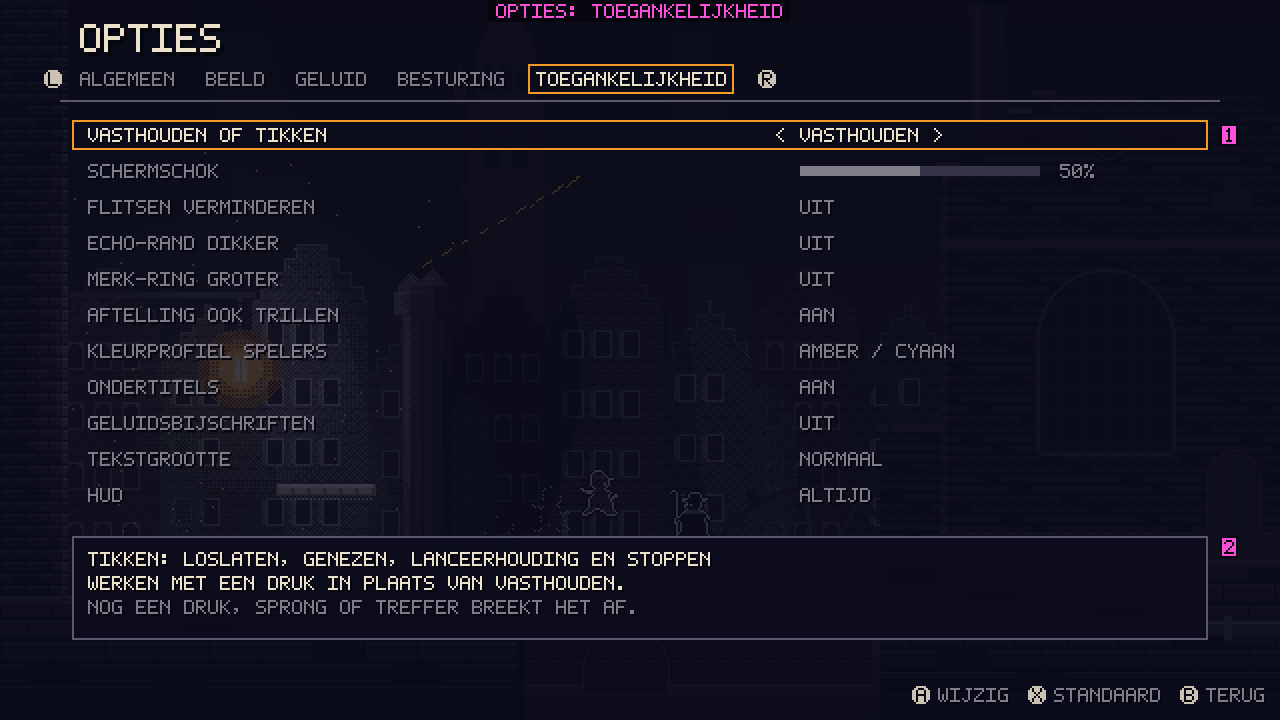
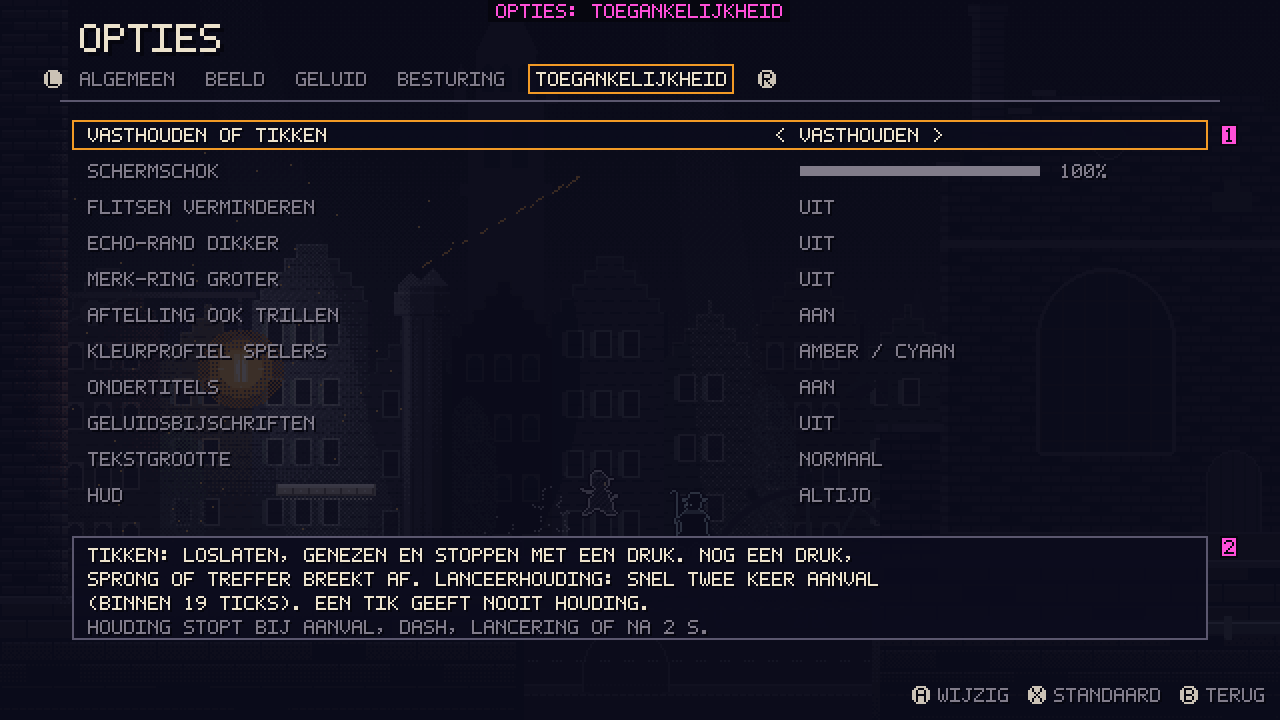
[ux-designer] Lead-review verwerkt: TG-01 lanceerhouding, keuzes LGD, MN-14, schermschok (#87)
Claude-Session: https://claude.ai/code/session_01L3XQzdT9Xbva5wUXZXuhuo

Changed region(s): [[0.0625, 0.7639, 0.6875, 0.8861], [0.7188, 0.2139, 0.8125, 0.2444], [0.8438, 0.2139, 0.875, 0.2444]]

diff --git a/docs/ux/wireframes/bron/genereer_wireframes.py b/docs/ux/wireframes/bron/genereer_wireframes.py
@@ -739,7 +739,7 @@ def blad_opties_toegankelijkheid():
     tabbalk(img, TABS, 4)
     rijen = [
         ("VASTHOUDEN OF TIKKEN", "VASTHOUDEN", None),
-        ("SCHERMSCHOK", "", 0.5),
+        ("SCHERMSCHOK", "", 1.0),
         ("FLITSEN VERMINDEREN", "UIT", None),
         ("ECHO-RAND DIKKER", "UIT", None),
         ("MERK-RING GROTER", "UIT", None),
@@ -754,9 +754,10 @@ def blad_opties_toegankelijkheid():
         optierij(img, 64 + i * 18, n, w, gekozen=(i == 0), schuif=s)
     rect(img, 36, 268, 568, 52, C["plaat"], 0.95)
     frame(img, 36, 268, 568, 52, C["kader_d"])
-    txt(img, "TIKKEN: LOSLATEN, GENEZEN, LANCEERHOUDING EN STOPPEN", 44, 276, C["tekst"])
-    txt(img, "WERKEN MET EEN DRUK IN PLAATS VAN VASTHOUDEN.", 44, 288, C["tekst"])
-    txt(img, "NOG EEN DRUK, SPRONG OF TREFFER BREEKT HET AF.", 44, 300, C["tekst_d"])
+    txt(img, "TIKKEN: LOSLATEN, GENEZEN EN STOPPEN MET EEN DRUK. NOG EEN DRUK,", 44, 274, C["tekst"])
+    txt(img, "SPRONG OF TREFFER BREEKT AF. LANCEERHOUDING: SNEL TWEE KEER AANVAL", 44, 286, C["tekst"])
+    txt(img, "(BINNEN 19 TICKS). EEN TIK GEEFT NOOIT HOUDING.", 44, 298, C["tekst"])
+    txt(img, "HOUDING STOPT BIJ AANVAL, DASH, LANCERING OF NA 2 S.", 44, 310, C["tekst_d"])
     noot(img, 1, 610, 62)
     noot(img, 2, 610, 268)
     hintbalk(img, [("A", "WIJZIG"), ("X", "STANDAARD"), ("B", "TERUG")])

diff --git a/docs/ux/hud-menus.md b/docs/ux/hud-menus.md
@@ -1,6 +1,6 @@
 # UX-spec HUD en menu's *Polderlight*
 
-Versie 0.1 · Eigenaar: UX Designer (met de UI Artist voor de eind-art) · Issue [#87](https://github.com/cesarvangerwen-glitch/echoborn/issues/87) (T10, `docs/productie/fase-2-kader.md` §2) · Review: Lead Game Designer
+Versie 0.1.1 · Eigenaar: UX Designer (met de UI Artist voor de eind-art) · Issue [#87](https://github.com/cesarvangerwen-glitch/echoborn/issues/87) (T10, `docs/productie/fase-2-kader.md` §2) · Review: Lead Game Designer
 Co-op, drop-in/drop-out en de gedeelde camera: **`docs/ux/coop.md`**. Wireframes: **`docs/ux/wireframes/`** (bron: `bron/genereer_wireframes.py`, draait vanaf de repo-root en print de metingen van §2.3).
 
 Bronnen: `docs/design/gdd.md` v0.6.2 (§2.5–2.9, §2.12, O-2), `kernloop.md` §4, `wereld.md` §2.5 (rij T10) en WS-08, `gemaalmeester.md` GM-03/GM-08, `docs/art/bible.md` §2, §3, §5–7, `docs/audio/bible.md` §6.1, `docs/tech/input.md`, `docs/tech/ontwerp.md` §8a, `docs/tech/performance-flowkamer.md` §7 (punt 14, 15), pitch v0.4 (P2: "zichtbaar zonder icoon of uitleg").
@@ -162,7 +162,7 @@ Het merk zit **op het object**, niet in de HUD. Het moet in één blik zeggen: v
 
 ### 3.8 Boss-balk (HUD-09)
 
-- **Waarom een balk:** de Gemaalmeester heeft fasen op 60 % en 20 % en een Wankel-moment op ≤ 20 % (GM-03, GM-08). Zonder balk ziet de speler niet hoe dicht de finisher is; dat kost bij een boss van 8–12 min (wereld §2.1) te veel spanning. Het is de enige plek waar we van "de wereld eerst" afwijken; de LGD mag dit terugdraaien (§7).
+- **Waarom een balk:** de Gemaalmeester heeft fasen op 60 % en 20 % en een Wankel-moment op ≤ 20 % (GM-03, GM-08). Zonder balk ziet de speler niet hoe dicht de finisher is; dat kost bij een boss van 8–12 min (wereld §2.1) te veel spanning. Het is de enige plek waar we van "de wereld eerst" afwijken. **Besloten door de LGD** (Lead-review PR #129); de Combat Designer voegt niets toe.
 - **Vorm:** 240×4 px onder in het midden, met de naam erboven (`HUD_BOSS_GEMAALMEESTER`) en **fasestrepen op 60 % en 20 %**. Bij Wankel knippert de streep van 20 % in de kleur van gloed 6 en verschijnt de merkplek op de ketel (GM-08): de balk wijst, de wereld toont.
 - In co-op gelijk; één balk.
 
@@ -206,7 +206,7 @@ Schermflow: `schermflow_placeholder.svg`. Alle menu's werken met controller, toe
 | **MN-11** | **Wie stuurt:** het apparaat dat pauzeerde. De andere speler ziet bovenaan "Pauze van P1/P2" en kan alleen zelf ook Start drukken om het menu over te nemen. Waarom: twee cursors in één menu leiden tot ruzie op de bank. |
 | **MN-12** | **Regels:** *Verder* · *Logboek* · *Opties* · *Speler 2 stopt* (alleen in co-op; een tweede weg naast het vasthouden, `coop.md` CO-06) · *Naar hoofdmenu*. Rechts: wijk, trap van het gemaal, lampglas, logbladzijden, "opgeslagen bij het gemaal". |
 | **MN-13** | **Naar hoofdmenu:** slaat op (LM-12: bij afsluiten) en vraagt **geen** bevestiging, want er gaat niets verloren behalve de plek (je begint bij het gemaal). De pauze toont dat al: "Opgeslagen bij het gemaal". |
-| **MN-14** | **Automatisch pauzeren** bij: focusverlies (alt-tab, Steam-overlay; `input.md` §2), de Deck in slaap, en een **controller van P1 die wegvalt** (`coop.md` CO-08). |
+| **MN-14** | **Automatisch pauzeren** bij: focusverlies (alt-tab, Steam-overlay; `input.md` §2), de Deck in slaap, en een **controller van P1 die wegvalt** (`coop.md` CO-09). |
 | **MN-15** | **Logboek:** alle gelezen bladzijden, per gebied, met lege plekken voor wat je nog mist (geen plaats, geen hint; WS-08 zegt al waar ze liggen). |
 
 ### 4.4 Opties (`menu_opties_toegankelijkheid_x2_placeholder.png`, `menu_opties_besturing_x2_placeholder.png`)
@@ -240,7 +240,7 @@ Wireframe: `menu_opties_toegankelijkheid_x2_placeholder.png`. Elke optie staat i
 
 | ID | Optie | Standaard | Wat het doet | Afhankelijk van |
 |---|---|---|---|---|
-| **TG-01** | **Vasthouden of tikken** | vasthouden | Loslaten (E-09), genezen (LM-07), lanceerhouding (C-11a) en stoppen (C-05) werken met één druk: de handeling loopt dezelfde ticks door en een tweede druk, sprong of treffer breekt hem af. Lanceerhouding: één druk zet de houding aan, de volgende AANVAL is de lancering. | LGD bevestigt dat C-11a met een tik niet makkelijker wordt dan bedoeld (§7) |
+| **TG-01** | **Vasthouden of tikken** | vasthouden | **Loslaten (E-09), genezen (LM-07) en stoppen (C-05)** werken met één druk: de handeling loopt evenveel ticks door, met dezelfde regels om af te breken (een tweede druk, een sprong of een treffer), dus het geeft geen voordeel. **Lanceerhouding (C-11a), alleen met *tikken*** (regel van de LGD): een **tweede AANVAL-druk binnen de herhaaltijd** (tick x+1…x+19 na een AANVAL-event op x; die druk geeft toch geen event, E-10) zet `aanval_vast` aan als **virtuele knop**. De houding loopt dan volgens C-11a vanaf x+12, tot de volgende AANVAL-flank, een DASH, de lanceertick (C-11d) of 120 ticks. De recorder neemt de virtuele bit op, zodat de echo hetzelfde doet. **Eén tik geeft nooit houding**: een bounce wordt niet per ongeluk een lancering. De lancering zelf komt zoals altijd door de landing van de springer (C-11b). | Besloten door de LGD (Lead-review PR #129) |
 | **TG-02** | Schermschok | 100 % | 0–100 %, ook voor de ontploffingen | — |
 | **TG-03** | Flitsen verminderen | uit | Geen witte flits bij een volle meter, een ontploffing of een fasewissel; in plaats daarvan een rand van 2 px | Technical Artist |
 | **TG-04** | Echo-rand dikker | uit | Rand van de echo en P2 2 px in plaats van 1 (art bible §6) | Art Director |
@@ -253,7 +253,7 @@ Wireframe: `menu_opties_toegankelijkheid_x2_placeholder.png`. Elke optie staat i
 | **TG-11** | HUD | altijd | *Automatisch*: levens en meter vervagen na 4 s zonder verandering naar 30 % en komen terug bij elke verandering, bij een gevecht en bij het gemaal. *Uit*: alleen voor opnames | — |
 | **TG-12** | Mono | uit | (in Geluid) | — |
 
-**Bewust (nog) niet:** een spelsnelheid en een moeilijkheidsgraad of hulpmodus. Beide raken de flownormen en de vensters van pillar 1 (en een trager spel raakt de vaste tick van de Sim). Dat is een ontwerpkeuze voor de LGD (§7), na F0.
+**Niet:** een **spelsnelheid**: nee, definitief (keuze LGD). Ze raakt de vaste tick van de Sim en de flownormen van pillar 1. Een **hulpmodus** of moeilijkheidsgraad komt niet in de slice; de LGD beslist na T11 (§7).
 
 ## 6. Taal en tekst
 
@@ -273,14 +273,14 @@ Wireframe: `menu_opties_toegankelijkheid_x2_placeholder.png`. Elke optie staat i
 | 4 | Knop-glyphs per apparaattype en het laatst gebruikte apparaat per speler; Steam Input op de Deck; Valves tekstmaat op de Deck bevestigen | Engine & Platform Programmer | Bij de Deck-build (#79) |
 | 5 | Trillen per carillonslag (TG-06), de "vol"-tik van de meter, de genees-klank (gelukt, afgebroken, te weinig) en de lijst voor geluidsbijschriften (TG-09) | Audio Director | Met de slice-audio (T8d) |
 | 6 | Kleurprofielen voor spelers en merken (TG-07), plus de dikkere rand (TG-04), gemeten met de ΔE-regel | Art Director | Bible v1 |
-| 7 | **Boss-balk** (§3.8): akkoord of liever zonder balk | Lead Game Designer, Combat Designer | Vóór T8b |
-| 8 | **TG-01 tikken in plaats van vasthouden** bij de lanceerhouding en het genezen: bevestigen dat het de bedoeling van C-11a en LM-07 niet breekt | Lead Game Designer | Vóór T8a |
-| 9 | Spelsnelheid en hulpmodus (§5, *bewust nog niet*) | Lead Game Designer | Na F0 |
-| 10 | HUD bijstellen na F0 en na de eerste playtest van de slice (T11): verstaan spelers het echo-icoon en de klokring zonder uitleg? | UX Designer, QA Lead | Na F0 en T11 |
-| 11 | `docs/ux/besturing.md`, `docs/ux/onboarding.md` en `docs/ux/toegankelijkheid.md` (rolbestand) volgen in een eigen issue; deze spec dekt de opties van toegankelijkheid al | UX Designer | Fase 2, na T10 |
+| 7 | **TG-01** bouwen: tik bij Loslaten, genezen en stoppen; bij de lanceerhouding de virtuele knop `aanval_vast` (tweede AANVAL-druk binnen x+1…x+19, houding vanaf x+12 tot de volgende AANVAL-flank, DASH, lanceertick of 120 ticks; de recorder neemt de bit op) | Gameplay Programmer | Met T8a |
+| 8 | Hulpmodus: beslist de LGD na T11, op basis van playtestdata | Lead Game Designer | Na T11 |
+| 9 | HUD bijstellen na F0 en na de eerste playtest van de slice (T11): verstaan spelers het echo-icoon en de klokring zonder uitleg? | UX Designer, QA Lead | Na F0 en T11 |
+| 10 | `docs/ux/besturing.md`, `docs/ux/onboarding.md` en `docs/ux/toegankelijkheid.md` (rolbestand) volgen in een eigen issue; deze spec dekt de opties van toegankelijkheid al | UX Designer | Fase 2, na T10 |
 
 ## 8. Wijzigingen
 
 | Versie | Datum | Wat |
 |---|---|---|
+| 0.1.1 | 2026-11-10 | Na de Lead-review (PR #129): TG-01 bij de lanceerhouding met de regel van de LGD (virtuele knop); keuzes LGD: boss-balk ja, tikken bij genezen, Loslaten en stoppen ja, spelsnelheid nee, hulpmodus na T11; MN-14 verwijst naar CO-09. |
 | 0.1 | 2026-11-10 | Eerste versie (T10 deel 1, #87): HUD solo, merk-aftelling, grijs/kleur en Deck, menu's, opties, toegankelijkheid, taal; wireframes in `docs/ux/wireframes/`. |

diff --git a/docs/ux/coop.md b/docs/ux/coop.md
@@ -75,7 +75,7 @@ Alle waarden blijven de startwaarden van de gdd; ze worden gemeten in T17 en T11
 | Drop-out: stopknop vasthouden (C-05) | **60 ticks** (1 s) | Niet per ongeluk, maar ook geen wachten; de ring maakt het zichtbaar. |
 | P2 buiten beeld voor oplossen (C-07) | **60 ticks** | Met de pijl en de ring is 1 s genoeg om terug te keren; langer laat P1 wachten. |
 | P2 terugkeer na oplossen (C-06) | **120 ticks** (2 s) | Gelijk aan D: het voelt als "je schaduw komt terug", net als de echo. |
-| Lanceerhouding (C-11a, met LGD) | **12 ticks** | Ongewijzigd; met TG-01 ook als tik (`hud-menus.md` §7 punt 8). |
+| Lanceerhouding (C-11a, met LGD) | **12 ticks** | Ongewijzigd. Met TG-01 (*tikken*) alleen via een tweede AANVAL-druk binnen de herhaaltijd; één tik geeft nooit houding (`hud-menus.md` TG-01). |
 | Camera: maximale zoom-uit | **960×540** | CA-03 |
 
 ## 7. Open punten
